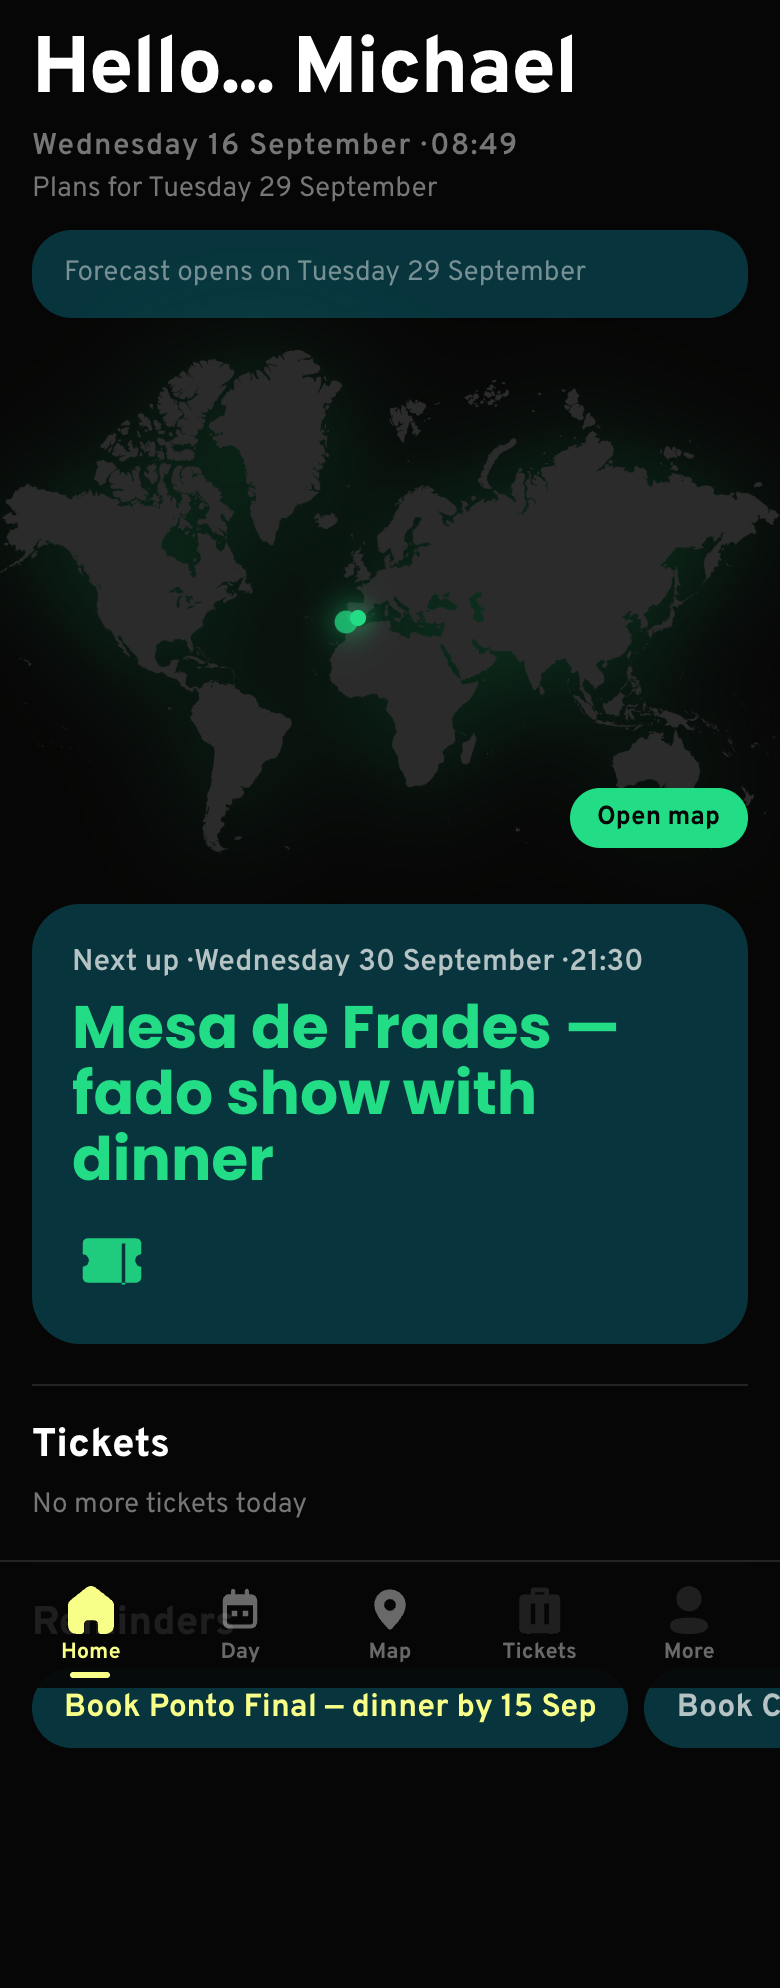
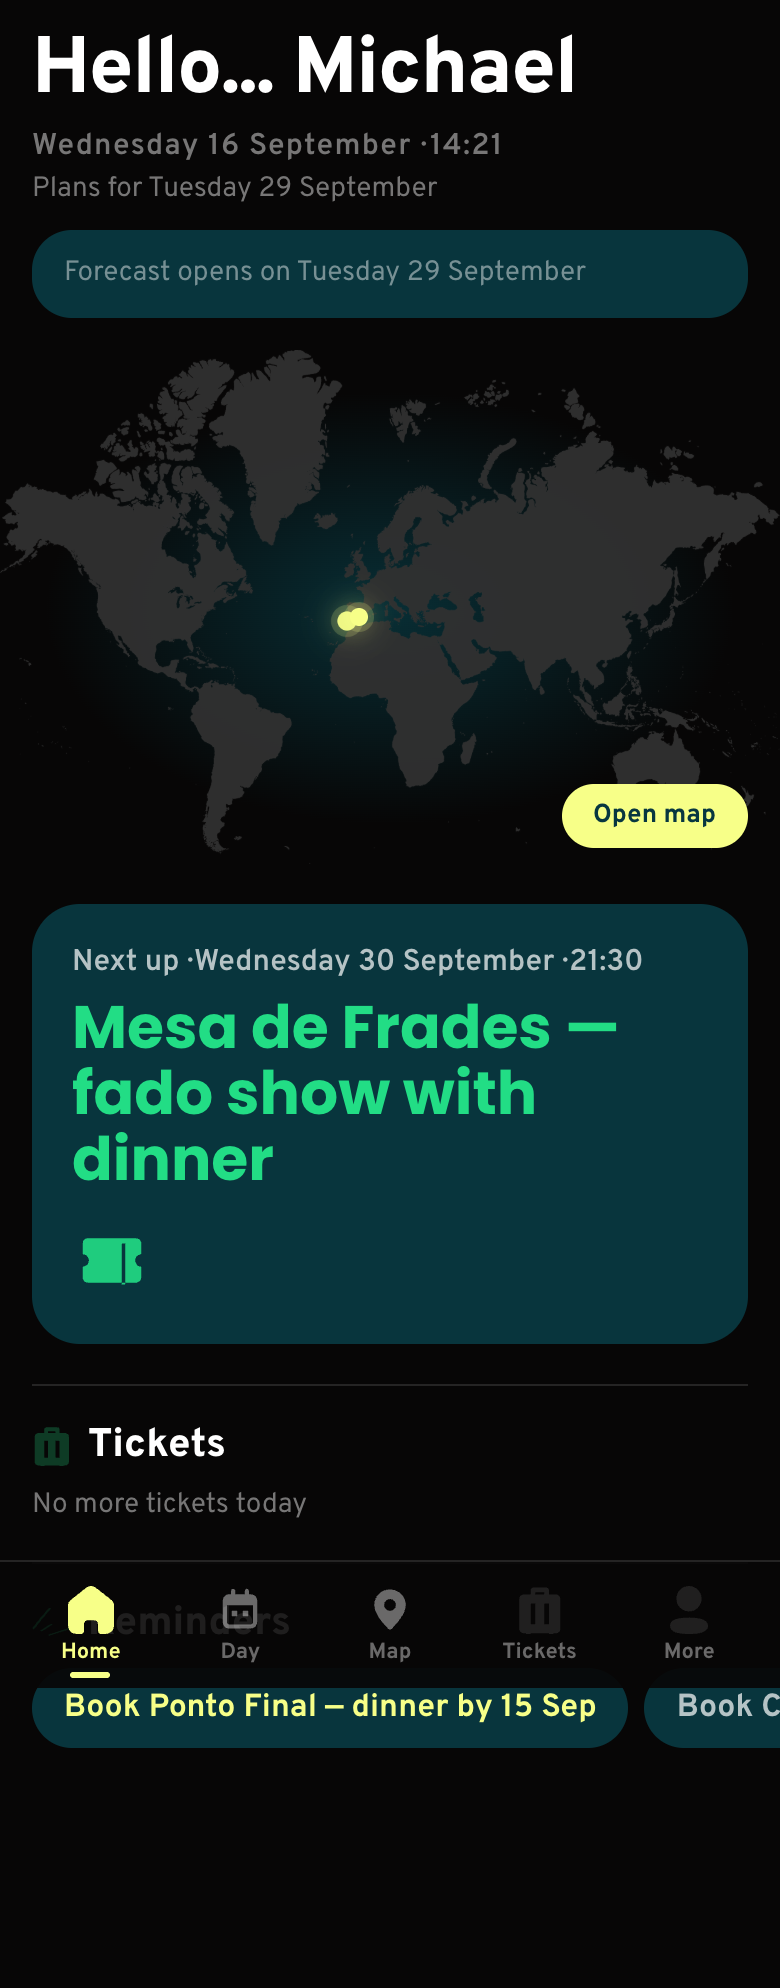
docs: Plan 6 notes and refreshed screenshots with photos

diff --git a/docs/superpowers/plans/2026-09-16-plan-5-notes.md b/docs/superpowers/plans/2026-09-16-plan-5-notes.md
@@ -109,3 +109,11 @@ All 12 existing PNGs in `2026-09-16-plan-5-shots/` re-captured against this buil
   DOM before the shot: this repo is public and the previous copy showed the owner's address. The
   older copy is still in git history at `632cb61` — worth a controller decision on whether that
   matters.
+
+## Plan 6 — photos (16 Sep 2026, evening)
+
+- Tasks 1–4 built subagent-driven (migration 20260916000007 applied; `photos` bucket; import step; offline cache; heroes/cards). Final review → one fix wave (target narrowing, offline fallback under photo, stale-cache retry, fail-fast on 403/429, single download, `photoPath` rename, path without duplicated slug) → re-review clean. One extra rule after the dry run: description-like multi-word names with no inner capital ("At the meeting point", "decision needed", "Alfama wander") are not photographed.
+- Real import (owner enabled Places API (New) on `europe-guide-server` at ~22:30): Lisbon `photos 44` (41 objects, 4 shared), Seville `photos 45` (36 objects, 9 shared), no warnings. Only non-places lack a photo: FR3628 ×2, Ferry to Cacilhas, Belém guided tour, At the meeting point, Sintra day tour departs, Alfama wander, decision needed, Triana ceramic streets.
+- Home starts the photo warm pass 4 s after mount so visible cards download first; first-ever open shows glyphs for ~10–15 s on hotel wifi, then photos; cached thereafter (offline OK). `tools/probe-screens.mjs` waits for load (not network idle) and gives photo screens 8–12 s.
+- Screenshots refreshed in `2026-09-16-plan-5-shots/` (seville-*, lisbon-*). Escape hatch for a wrong photo: delete the `photo_cache` row and the bucket object for that path, then re-import; a fresh search runs.
+- Owner's call, not done: Google attribution URI (needs a column) and the caching-terms question for storing Places photos offline in a private single-user app.
